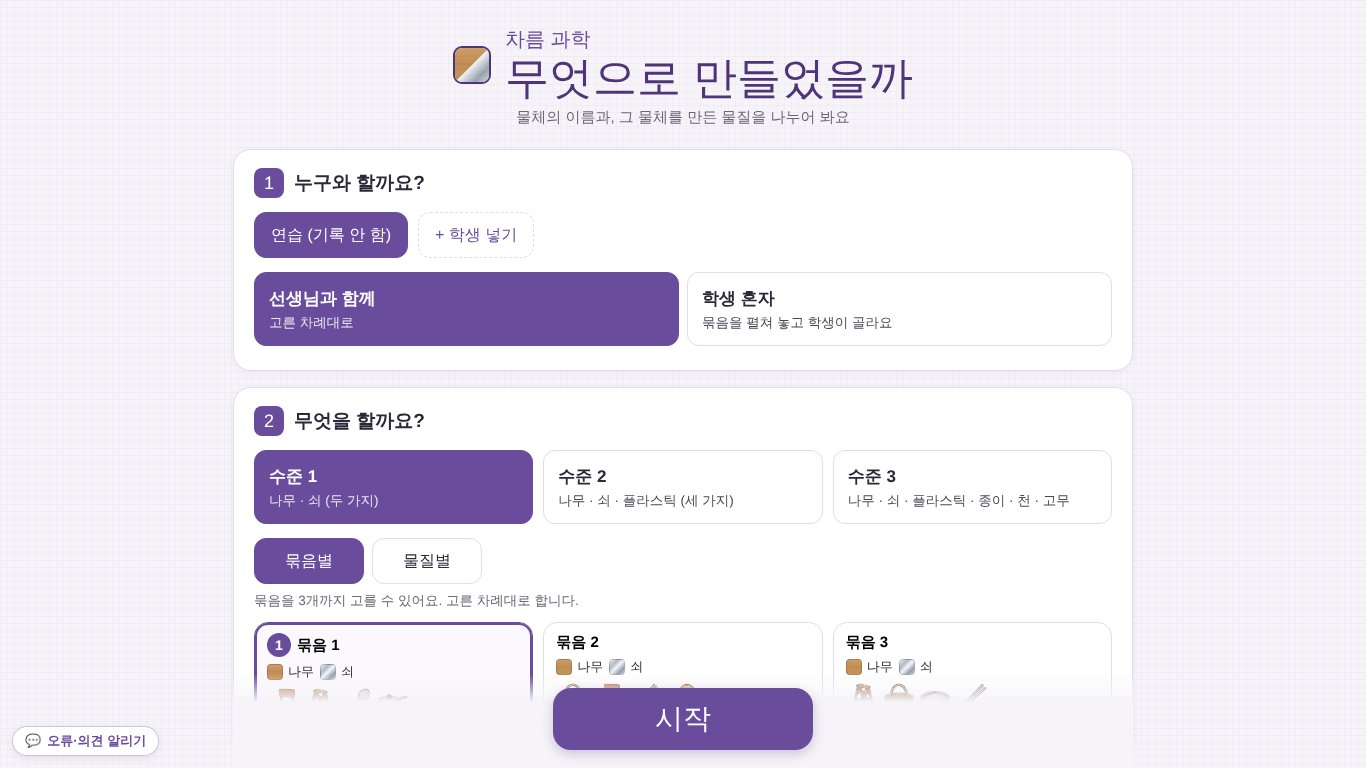
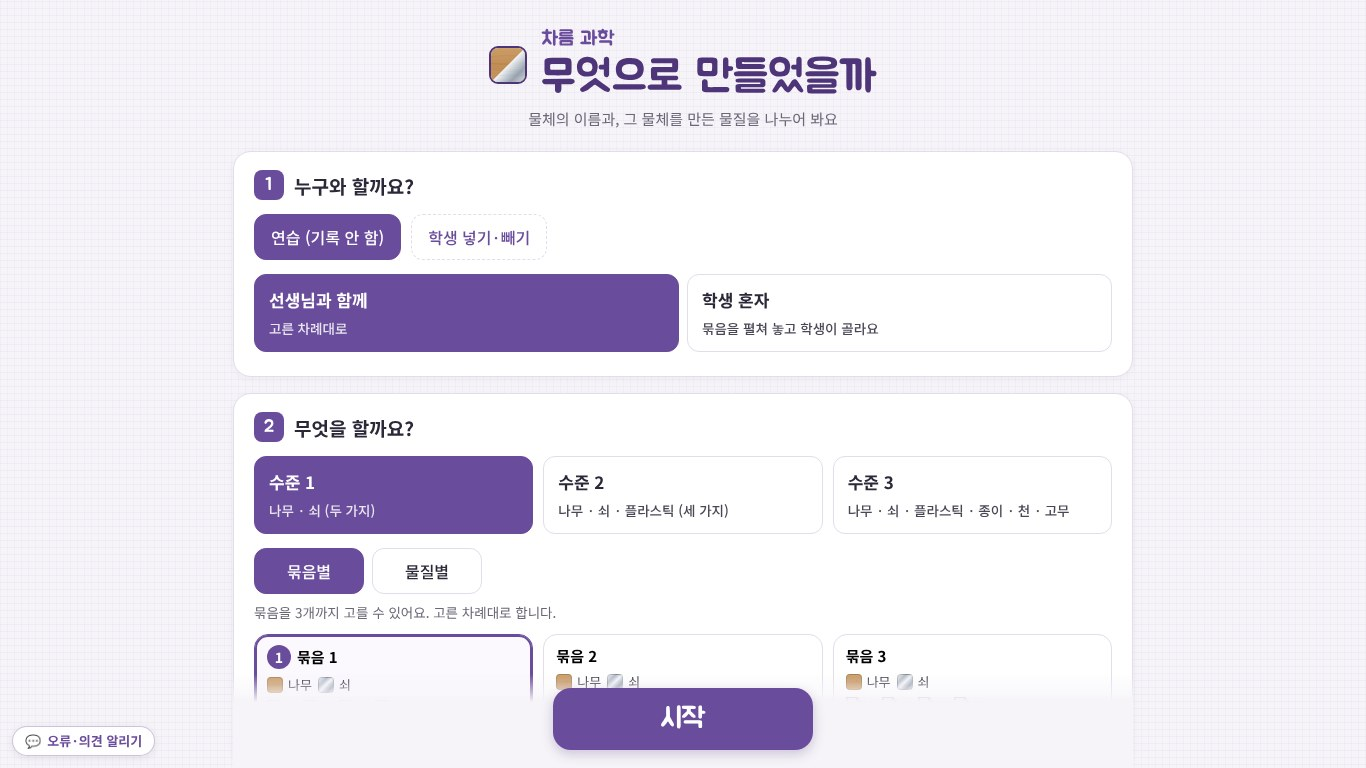
공통 모듈 첫걸음: 학생 명단(roster)을 common/에 두고 010에 넣음
- common/roster.js: 넣기·빼기·다시 넣기. 뺀 학생은 다른 앱 명단에서도 빠지고
  그 앱 기록은 6개월 보관, 그동안 같은 이름으로 다시 넣으면 기록이 이어짐(선생님 결정)
- tools/sync-modules.py: 원본을 앱의 <script id> 칸에 복사(앱은 HTML 한 파일 그대로)
- 010: 설정 ① '학생 넣기·빼기', 기록 보기에 뺀 학생도, 캡처 01 다시 찍음
- 지침·CLAUDE.md·tools/README에 공통 모듈 방식 적음

Claude-Session: https://claude.ai/code/session_01Wjm5ofLy9XRY2AmtWCfTPZ

diff --git a/common/roster.js b/common/roster.js
@@ -1,0 +1,119 @@
+/* 차름 공통 모듈: 학생 명단(roster) — 원본은 common/roster.js. 앱 안의 <script id="roster">는 tools/sync-modules.py가 복사해 넣은 것이라 손으로 고치지 않는다.
+   명단은 같은 기기의 모든 차름 앱이 함께 쓴다(webapp.students). 뺀 학생은 webapp.students.out에 뺀 날과 함께 옮긴다.
+   뺀 학생의 기록은 KEEP_DAYS(6개월) 동안 남겨 두고, 그동안 같은 이름으로 다시 넣으면 같은 학생으로 되살아나 기록이 이어진다.
+   6개월이 지나면 앱마다 Roster.purge(기록)로 그 학생의 줄을 지운다. 빼낸 표시는 다른 앱도 지울 수 있게 3년 동안 남긴다.
+
+   쓰는 법(앱):
+     Roster.list()            지금 명단 [{id,name}]
+     Roster.nameOf(id)        이름(뺀 학생도)
+     Roster.has(id)           지금 명단에 있는지
+     Roster.add(이름)         넣은(또는 되살린) 학생을 돌려줌
+     Roster.remove(id)        명단에서 뺌(기록은 앱이 6개월 보관)
+     Roster.kept()            기록을 보관 중인 뺀 학생 [{id,name,at,until}]
+     Roster.purge(log, row=>row.s)   보관 기간이 지난 학생의 줄을 뺀 새 배열
+     Roster.mount(칸, {btn, on, input, onChange})   넣기·빼기 화면을 칸 안에 그림
+       btn·on·input: 그 앱의 단추·눌림·입력 칸 class(얼굴은 앱마다). onChange({type:'add'|'remove'|'restore', id})
+*/
+(function () {
+  'use strict';
+  var KEY = 'webapp.students', OUT = 'webapp.students.out', DAY = 864e5, KEEP_DAYS = 183, MARK_DAYS = 1100;
+  function get(k, d) { try { var v = JSON.parse(localStorage.getItem(k) || 'null'); return Array.isArray(v) ? v : d; } catch (e) { return d; } }
+  function put(k, v) { try { localStorage.setItem(k, JSON.stringify(v)); } catch (e) {} }
+  function clean(n) { return String(n || '').trim().replace(/\s+/g, ' ').slice(0, 20); }
+  function newId() { return 's' + Date.now().toString(36) + Math.random().toString(36).slice(2, 5); }
+  function esc(s) { return String(s).replace(/[&<>"']/g, function (c) { return { '&': '&amp;', '<': '&lt;', '>': '&gt;', '"': '&quot;', "'": '&#39;' }[c]; }); }
+
+  function list() { return get(KEY, []).filter(function (s) { return s && s.id && s.name; }); }
+  function outs() {
+    var now = Date.now(), all = get(OUT, []), live = all.filter(function (o) { return o && o.id && now - (o.at || 0) < MARK_DAYS * DAY; });
+    if (live.length !== all.length) put(OUT, live);
+    return live;
+  }
+  function kept() {
+    var now = Date.now(), ids = {};
+    list().forEach(function (s) { ids[s.id] = 1; });
+    return outs().filter(function (o) { return !ids[o.id] && now - o.at < KEEP_DAYS * DAY; })
+      .map(function (o) { return { id: o.id, name: o.name, at: o.at, until: o.at + KEEP_DAYS * DAY }; });
+  }
+  function nameOf(id) {
+    var s = list().filter(function (x) { return x.id === id; })[0] || outs().filter(function (x) { return x.id === id; })[0];
+    return s ? s.name : '';
+  }
+  function has(id) { return list().some(function (s) { return s.id === id; }); }
+  function add(name) {
+    var n = clean(name); if (!n) return null;
+    var L = list(), same = L.filter(function (s) { return s.name === n; })[0];
+    if (same) return same;
+    var back = kept().filter(function (o) { return o.name === n; }).sort(function (a, b) { return b.at - a.at; })[0];
+    var st = back ? { id: back.id, name: n } : { id: newId(), name: n };
+    L.push(st); put(KEY, L);
+    if (back) put(OUT, outs().filter(function (o) { return o.id !== back.id; }));
+    return st;
+  }
+  function remove(id) {
+    var L = list(), st = L.filter(function (s) { return s.id === id; })[0]; if (!st) return;
+    put(KEY, L.filter(function (s) { return s.id !== id; }));
+    put(OUT, outs().filter(function (o) { return o.id !== id; }).concat([{ id: st.id, name: st.name, at: Date.now() }]));
+  }
+  function purge(log, idOf) {
+    if (!Array.isArray(log)) return log;
+    var now = Date.now(), gone = {};
+    outs().forEach(function (o) { if (now - o.at >= KEEP_DAYS * DAY) gone[o.id] = 1; });
+    list().forEach(function (s) { delete gone[s.id]; });
+    return log.filter(function (r) { return !gone[idOf ? idOf(r) : r.s]; });
+  }
+  function md(t) { var d = new Date(t); return (d.getMonth() + 1) + '월 ' + d.getDate() + '일'; }
+
+  /* 기본 꼴: 자리·간격만. 색·글꼴·둥글기는 앱의 단추 class와 CSS 변수(--rs-line, --rs-soft)로 앱마다 */
+  var CSS = ':where(.rs){display:grid;gap:10px;margin-top:10px}'
+    + ':where(.rs-add){display:flex;gap:8px;flex-wrap:wrap}'
+    + ':where(.rs-add input){flex:1;min-width:140px;max-width:260px}'
+    + ':where(.rs-names){display:flex;flex-wrap:wrap;gap:6px 8px;margin:0;padding:0;list-style:none}'
+    + ':where(.rs-names li){display:inline-flex;align-items:center;gap:2px;padding:2px 2px 2px 12px;border:1.5px solid var(--rs-line,#d6d2cb);border-radius:999px;min-height:40px}'
+    + ':where(.rs-x){border:0;background:none;font:inherit;font-size:20px;line-height:1;width:40px;height:40px;border-radius:50%;cursor:pointer;color:inherit;opacity:.55}'
+    + ':where(.rs-x:hover,.rs-x:focus-visible){opacity:1;background:var(--rs-soft,rgba(0,0,0,.06))}'
+    + ':where(.rs-none,.rs-out){font-size:14px;opacity:.8;margin:0}'
+    + ':where(.rs-out summary){cursor:pointer}'
+    + ':where(.rs-out ul){margin:6px 0 0;padding:0;list-style:none;display:grid;gap:6px}'
+    + ':where(.rs-out li){display:flex;align-items:center;gap:10px;flex-wrap:wrap}';
+  function style() {
+    if (document.getElementById('rsStyle')) return;
+    var s = document.createElement('style'); s.id = 'rsStyle'; s.textContent = CSS;
+    (document.head || document.documentElement).insertBefore(s, (document.head || document.documentElement).firstChild);
+  }
+
+  function mount(box, opt) {
+    opt = opt || {}; style();
+    var btn = opt.btn || '', on = opt.on || '', inp = opt.input || '', tell = opt.onChange || function () {};
+    function draw() {
+      var L = list(), K = kept(), h = '<div class="rs">';
+      h += '<div class="rs-add"><input class="' + inp + '" maxlength="20" placeholder="학생 이름" aria-label="넣을 학생 이름" autocomplete="off">'
+        + '<button type="button" class="' + btn + ' ' + on + '" data-rs="add">넣기</button></div>';
+      h += L.length ? '<ul class="rs-names">' + L.map(function (s) {
+        return '<li><span>' + esc(s.name) + '</span><button type="button" class="rs-x" data-rs="del" data-id="' + esc(s.id) + '" aria-label="' + esc(s.name) + ' 빼기">×</button></li>';
+      }).join('') + '</ul>' : '<p class="rs-none">아직 넣은 학생이 없어요.</p>';
+      if (K.length) h += '<details class="rs-out"><summary>뺀 학생 ' + K.length + '명 — 기록은 보관 중</summary><ul>' + K.map(function (o) {
+        return '<li><span>' + esc(o.name) + ' · ' + md(o.until) + '까지 보관</span><button type="button" class="' + btn + '" data-rs="back" data-id="' + esc(o.id) + '">다시 넣기</button></li>';
+      }).join('') + '</ul></details>';
+      box.innerHTML = h + '</div>';
+      var input = box.querySelector('input');
+      function doAdd() { var st = add(input.value); if (!st) { input.focus(); return; } draw(); tell({ type: 'add', id: st.id }); }
+      box.querySelector('[data-rs=add]').onclick = doAdd;
+      input.onkeydown = function (e) { if (e.key === 'Enter') { e.preventDefault(); doAdd(); } };
+      Array.prototype.forEach.call(box.querySelectorAll('[data-rs=del]'), function (b) {
+        b.onclick = function () {
+          var id = b.getAttribute('data-id'), n = nameOf(id);
+          if (!confirm(n + ' 학생을 명단에서 뺄까요?\n\n이 기기의 다른 차름 앱 명단에서도 함께 빠져요.\n기록은 6개월 동안 남아 있다가, 그동안 다시 넣지 않으면 지워져요.')) return;
+          remove(id); draw(); tell({ type: 'remove', id: id });
+        };
+      });
+      Array.prototype.forEach.call(box.querySelectorAll('[data-rs=back]'), function (b) {
+        b.onclick = function () { var st = add(nameOf(b.getAttribute('data-id'))); draw(); if (st) tell({ type: 'restore', id: st.id }); };
+      });
+    }
+    draw();
+    return { refresh: draw, focus: function () { var i = box.querySelector('input'); if (i) i.focus(); } };
+  }
+
+  window.Roster = { list: list, nameOf: nameOf, has: has, add: add, remove: remove, kept: kept, purge: purge, mount: mount, KEEP_DAYS: KEEP_DAYS };
+})();

diff --git a/tools/sync-modules.py b/tools/sync-modules.py
@@ -1,0 +1,52 @@
+#!/usr/bin/env python3
+"""공통 모듈 넣기 — common/이름.js 원본을 앱 안의 <script id="이름"> 칸에 그대로 복사해 넣는다.
+
+    python3 tools/sync-modules.py           # 바꾸고, 바뀐 앱을 적음
+    python3 tools/sync-modules.py --check   # 바꾸지 않고, 원본과 다른 앱만 적음(올리기 전 확인)
+
+앱은 지금처럼 HTML 한 파일로 열리고(다른 파일을 부르지 않음), 원본은 한 곳에만 있다.
+새 앱에 모듈을 넣으려면 그 앱 <head> 끝이나 앱 본문 <script> 앞에 빈 칸 <script id="이름"></script>를 두고 이 도구를 돌린다.
+007 편 판(word-learn-N.html)은 split.py가 통합본에서 다시 만들므로 함께 바뀐다.
+"""
+import os, re, sys
+
+ROOT = os.path.dirname(os.path.dirname(os.path.abspath(__file__)))
+CHECK = '--check' in sys.argv
+SRC = os.path.join(ROOT, 'common')
+
+mods = {}
+for f in sorted(os.listdir(SRC)):
+    if f.endswith('.js'):
+        mods[f[:-3]] = open(os.path.join(SRC, f), encoding='utf-8').read().strip('\n')
+
+changed, same = {}, {}
+for dirpath, dirs, files in os.walk(ROOT):
+    dirs[:] = [d for d in dirs if not d.startswith('.') and d not in ('node_modules', 'common')]
+    for f in sorted(files):
+        if not f.endswith('.html'):
+            continue
+        path = os.path.join(dirpath, f)
+        src = open(path, encoding='utf-8').read()
+        out = src
+        for name, code in mods.items():
+            pat = re.compile(r'(<script id="' + re.escape(name) + r'">)(.*?)(</script>)', re.S)
+            if not pat.search(out):
+                continue
+            new = pat.sub(lambda m: m.group(1) + '\n' + code + '\n' + m.group(3), out)
+            rel = os.path.relpath(path, ROOT)
+            (changed if new != out else same).setdefault(name, []).append(rel)
+            out = new
+        if out != src and not CHECK:
+            open(path, 'w', encoding='utf-8').write(out)
+
+for name in mods:
+    c, s = changed.get(name, []), same.get(name, [])
+    if not c and not s:
+        print(f'{name}: 넣은 앱 없음')
+        continue
+    if c:
+        print(f'{name}: {"원본과 다름" if CHECK else "새로 넣음"} {len(c)} — ' + ', '.join(c))
+    if s:
+        print(f'{name}: 원본과 같음 {len(s)} — ' + ', '.join(s))
+if CHECK and changed:
+    sys.exit(1)

diff --git a/docs/guidelines.md b/docs/guidelines.md
@@ -22,6 +22,7 @@
 - "답만"이면 파일을 바꾸지 않음. 이상하면 멈춰서 묻기. 큰 결정은 제안 → 확인 → 실행. 큰 수정은 목록을 먼저 보여 주고 묶어서.
 - 어미: 설명서·보고 "~니다", 학생에게 하는 말·짧은 안내 "~요". 앱을 만든 선생님은 **"제작자"**.
 - **세션 나누기**: 따로 총괄 세션을 두지 않는다. 이 지침이 총괄이다. 앱 하나는 그 앱을 맡은 세션에서 고치고, 여러 앱에 걸친 일(공통 모듈·공용 자료·서버)은 선생님이 필요할 때 새 세션에 맡긴다. 어느 세션이든 공통 사항은 이 지침을 따르고, 바꾸면 이 지침도 고친다.
+- **공통 모듈**(2026-11-02 선생님 결정): 원본은 `common/이름.js` 한 곳, 앱에는 `<script id="이름">` 칸에 `python3 tools/sync-modules.py`로 복사해 넣는다(앱은 그대로 HTML 한 파일 — 공용 파일을 불러 쓰면 하나 잘못돼도 모든 앱이 수업 중에 멈추므로). 앱 안의 모듈 칸은 손으로 고치지 않음. 모듈은 동작만, 얼굴(단추 class·색·글꼴)은 앱이 넘겨 줌. 지금 `common/`에 있는 것: `roster`(학생 명단). 앞으로 옮길 것: 기록 저장·CSV, 멈춘 곳, 말하기(전체 화면 뒤), 진행 표시, 그리고 지금 복사해 쓰는 adminGate·reportLink·endLesson·printFit·holdBubble·keyRelay·photoRelay.
 - **같은 뼈대, 다른 얼굴**: 쓰는 법이 같아야 하는 것만 모든 앱이 똑같이(관리 버튼·메뉴, 수업 끝내기, 오류 알리기, 출력, 진행 표시 자리, 터치, 소리 끄기, 제목 체계, 교육 원칙). 바탕 무늬·번호 꼴·제목 옆 표시·보상 모양·화면 구성은 앱마다 다르게. 새 앱이 기존 앱을 그대로 베끼면 "이 앱만의 것"을 제안한다.
 - **시각 디자인은 자연스럽게**: AI가 만든 듯 판에 박힌 꼴(보라·남색 그라데이션, 똑같은 둥근 카드와 그림자를 줄줄이, 이모지 아이콘, 반짝이·유리 효과, 해시태그 알약, 뜻 없는 장식)을 피하고 사람이 손으로 만든 듯 자연스럽게. 꾸밈은 그 앱의 소재(그림·주제)에서 가져오고, 꾸밈보다 내용이 먼저. 그림을 올릴 때는 오려 붙인 티(흰 테두리·떠 있는 느낌)가 나지 않게 — 가장자리 정리(`tools/clean-edges.py`), 땅에 닿는 옅은 그림자.
 - **제목**: `[차름 교과] 하는 일`(+ 여러 권이면 `N편 · 편 이름`). `<title>`·인쇄 머리·README는 괄호까지. 게시판 글 제목은 괄호 없이 이름(+편). 앱 화면은 작게 "차름 교과"(영역 색) + 크게 이름(Jua, 004는 명조) + 편. 이어지는 다른 앱은 제목에 번호 없이 설명서에서 "전/다음 단계". 파일 이름·주소·저장 칸은 제목이 바뀌어도 그대로.
@@ -73,7 +74,7 @@
 - 쓰지 않는 것: Cloudflare Worker. (`gemini-relay.php`는 서버에서 지움.)
 
 ## 6. 학생 기록
-- 명단은 실명, 앱끼리 공유(`webapp.students`), 기록은 기기에만, "연습"은 기록 안 함, 기록 중 왼쪽 위 빨간 점.
+- 명단은 실명, 앱끼리 공유(`webapp.students`), **넣기·빼기는 공통 모듈 `roster`**(설정 ①의 "학생 넣기·빼기", 2026-11-02 010부터 — 다른 앱은 고칠 때 옮김). 학생을 빼면 다른 앱 명단에서도 빠지고 그 앱 기록은 **6개월 보관**, 그동안 같은 이름으로 다시 넣으면 기록이 이어지고 아니면 지움(뺀 학생은 `webapp.students.out`). 기록은 기기에만, "연습"은 기록 안 함, 기록 중 왼쪽 위 빨간 점.
 - 한 줄: 학생·시각·대상·단계·결과(바로/도움)·수준·방식·헷갈린 보기.
 - 교사용 기록 맨 위 한 장 요약(처음 ↔ 최근, 주별 흐름, 도움 필요한 것, 헷갈린 짝, 다음에 해 볼 것), 자세한 표는 접음, A4·CSV(BOM). 어려운 것 다시 넣기(끌 수 있음), 수준 알림(단추로만). 예시 학생 **홍길동**. 앱별 요약 꼴(002 난이도 사다리, 003 단계 사다리, 005·006 비율, 008 수준·단계별)은 옛 지침 6절.
 

diff --git a/CLAUDE.md b/CLAUDE.md
@@ -11,6 +11,7 @@
 ## 저장소 지도
 - `NNN/` 앱 하나씩(001~010). `앱.html`이 앱, `앱_manual.html`이 게시판 본문, `앱_guide.html`이 자세한 설명, `앱01.jpg~`가 캡처, `README.txt`가 그 앱의 세부.
 - `media/` 여러 앱이 함께 쓰는 자료(사진 `photos/`, 목소리 `voice/`, 동물·장면). 앱 안에서는 늘 GitHub 절대 주소로 부른다.
+- `common/` 공통 모듈 원본(`roster.js` 학생 명단 …). 고친 뒤 `python3 tools/sync-modules.py`로 앱마다 넣는다. 앱 안의 모듈 칸은 손으로 고치지 않는다.
 - `server/` charum.org 서버에 올리는 파일의 원본(토큰 칸은 비움). `relay/` 사진 다리.
 - `교과-과학/` 과학 교과서·지도서 정리(기본교육과정: 초5, 중·고 과학② Ⅲ단원 / 공통교육과정: 초3-1 2단원). 폴더 이름으로 기본/공통교육과정을 나눈다. 앱 내용을 교과와 맞출 때 `README.md` 색인부터 본다.
 - `docs/` 지침. `guidelines.md`가 기준, `guidelines-full.md`는 앱마다의 자세한 사정·저장 칸·기록 꼴(필요한 절만 찾아 읽음).
